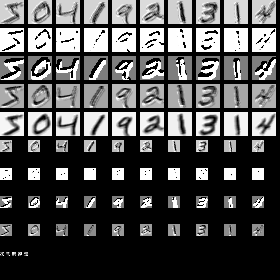
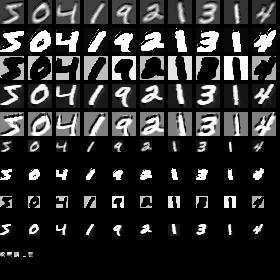
fixed a bug for convolutional layer

diff --git a/catseye.h b/catseye.h
@@ -341,32 +341,28 @@ void CatsEye_SVM_layer_update(double eta, double *o, double *w, double *d, int u
 // caluculate forward propagation
 void CatsEye_convolutional_layer_forward(double *s, double *w, double *z, double *o, int u[])
 {
-	int sx = u[XSIZE] - u[KSIZE];
-	int sy = u[YSIZE] - u[KSIZE];
-//	int sx = u[XSIZE] - (u[KSIZE]/2)*2;
-//	int sy = u[YSIZE] - (u[KSIZE]/2)*2;
+//	int sx = u[XSIZE] - u[KSIZE];
+//	int sy = u[YSIZE] - u[KSIZE];
+	int sx = u[XSIZE] - (u[KSIZE]/2)*2;
+	int sy = u[YSIZE] - (u[KSIZE]/2)*2;
 
 	for (int c=0; c<u[CHANNEL]; c++) {
-
-	for (int y=0; y<sy; y++) {
-		for (int x=0; x<sx; x++) {
-//			double *p = &s[y*sx+x];
-			double *p = &s[y*u[XSIZE]+x];
-			double a = 0;
-//			double *k = w;
-			double *k = &w[c*(u[KSIZE]*u[KSIZE]+1)];
-			for (int wy=0; wy<u[KSIZE]; wy++) {
-				for (int wx=0; wx<u[KSIZE]; wx++) {
-//					a += p[wx] * (*k++);
-					a += (*p++) * (*k++);
+		for (int y=0; y<sy; y++) {
+			for (int x=0; x<sx; x++) {
+//				double *p = &s[y*u[XSIZE]+x];	// in
+				double a = 0;
+				double *k = &w[c*(u[KSIZE]*u[KSIZE]+1)];
+				for (int wy=0; wy<u[KSIZE]; wy++) {
+					double *p = s + (y+wy)*u[XSIZE]+x;	// in
+					for (int wx=0; wx<u[KSIZE]; wx++) {
+						a += (*p++) * (*k++);
+					}
+//					p += sx;
 				}
-				p += sx;
+				a += *k;	// bias
+				*o++ = CatsEye_act[u[ACT]](&a, 0, 1);
 			}
-			a += *k;	// bias
-			*o++ = CatsEye_act[u[ACT]](&a, 0, 1);
 		}
-	}
-
 	}
 }
 // caluculate back propagation
@@ -397,38 +393,33 @@ void CatsEye_convolutional_layer_backward(double *s, double *o, double *w, doubl
 }
 void CatsEye_convolutional_layer_update(double eta, double *s, double *w, double *d, int u[])
 {
-	int sx = u[XSIZE] - u[KSIZE];
-	int sy = u[YSIZE] - u[KSIZE];
-//	int sx = u[XSIZE] - (u[KSIZE]/2)*2;
-//	int sy = u[YSIZE] - (u[KSIZE]/2)*2;
+//	int sx = u[XSIZE] - u[KSIZE];
+//	int sy = u[YSIZE] - u[KSIZE];
+	int sx = u[XSIZE] - (u[KSIZE]/2)*2;
+	int sy = u[YSIZE] - (u[KSIZE]/2)*2;
 
 	for (int c=0; c<u[CHANNEL]; c++) {
-
-	// update the weights
-	for (int wy=0; wy<u[KSIZE]; wy++) {
-		for (int wx=0; wx<u[KSIZE]; wx++) {
-//			double *delta = d;
-			double *delta = &d[c*sx*sy];
-			for (int y=0; y<sy; y++) {
-//				double *p = &s[y*sx + wy*u[XSIZE]+wx];
-				double *p = &s[y*u[XSIZE] + wy*u[XSIZE]+wx];
-				for (int x=0; x<sx; x++) {
-					*w -= eta * (*delta++) * (*p++);
+		// update the weights
+		for (int wy=0; wy<u[KSIZE]; wy++) {
+			for (int wx=0; wx<u[KSIZE]; wx++) {
+				double *delta = &d[c*sx*sy];
+				for (int y=0; y<sy; y++) {
+					double *p = &s[y*u[XSIZE] + wy*u[XSIZE]+wx];
+					for (int x=0; x<sx; x++) {
+						*w -= eta * (*delta++) * (*p++);
+					}
 				}
+				w++;
 			}
-			w++;
 		}
-	}
 
-	// bias
-//	double *delta = d;
-	double *delta = &d[c*sx*sy];
-	for (int y=0; y<sy; y++) {
-		for (int x=0; x<sx; x++) {
-			*w -= eta * (*delta++);
+		// bias
+		double *delta = &d[c*sx*sy];
+		for (int y=0; y<sy; y++) {
+			for (int x=0; x<sx; x++) {
+				*w -= eta * (*delta++);
+			}
 		}
-	}
-
 	}
 }
 

diff --git a/example/mnist_cnn_train.c b/example/mnist_cnn_train.c
@@ -28,9 +28,9 @@ int main()
 	};
 #else
 	int ch = 5;		// チャンネル
-	int k = 4;		// カーネルサイズ
+	int k = 5;		// カーネルサイズ
 	int s = 28-(k/2)*2;	// 出力サイズ
-	int u[] = {		// 91.2%[k:4]
+	int u[] = {		// 94.58%[k:4]
 		0, 0, 1, size,    0, 0, 0, 0,
 
 		CATS_CONV, CATS_ACT_TANH, ch, ch*s*s, 28, 28, k, 1,	// tanh, 5ch, stride 1
@@ -76,15 +76,24 @@ int main()
 //	CatsEye_saveBin(&cat, "mnist.bin");
 
 	// 結果の表示
+	unsigned char *pixels = calloc(1, size*100);
+	int c = 0;
 	int r = 0;
 	for (int i=0; i<sample; i++) {
 		int p = CatsEye_predict(&cat, x+size*i);
 		if (p==t[i]) r++;
+		else {
+			if (c<100) {
+				CatsEye_visualize(cat.o[0], 28*28, 28, &pixels[(c/10)*28*28*10+(c%10)*28], 28*10);
+			}
+			c++;
+		}
 //		printf("%d -> %d\n", p, t[i]);
 	}
 	printf("Prediction accuracy on training data = %f%%\n", (float)r/sample*100.0);
+	stbi_write_png("mnist_cnn_train_wrong.png", 28*10, 28*10, 1, pixels, 28*10);
+	memset(pixels, 0, size*100);
 
-	unsigned char *pixels = calloc(1, size*100);
 	for (int i=0; i<10; i++) {
 		CatsEye_forward(&cat, x+size*i);
 
